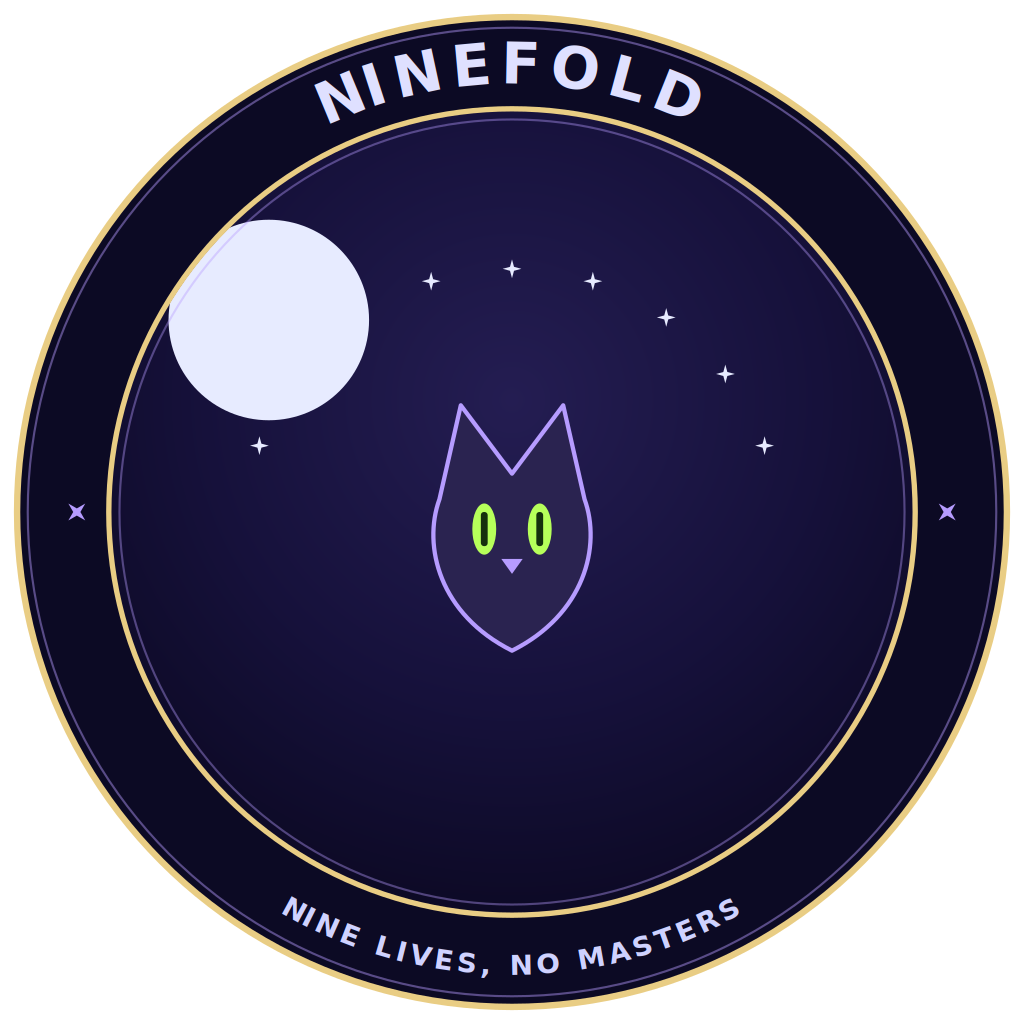
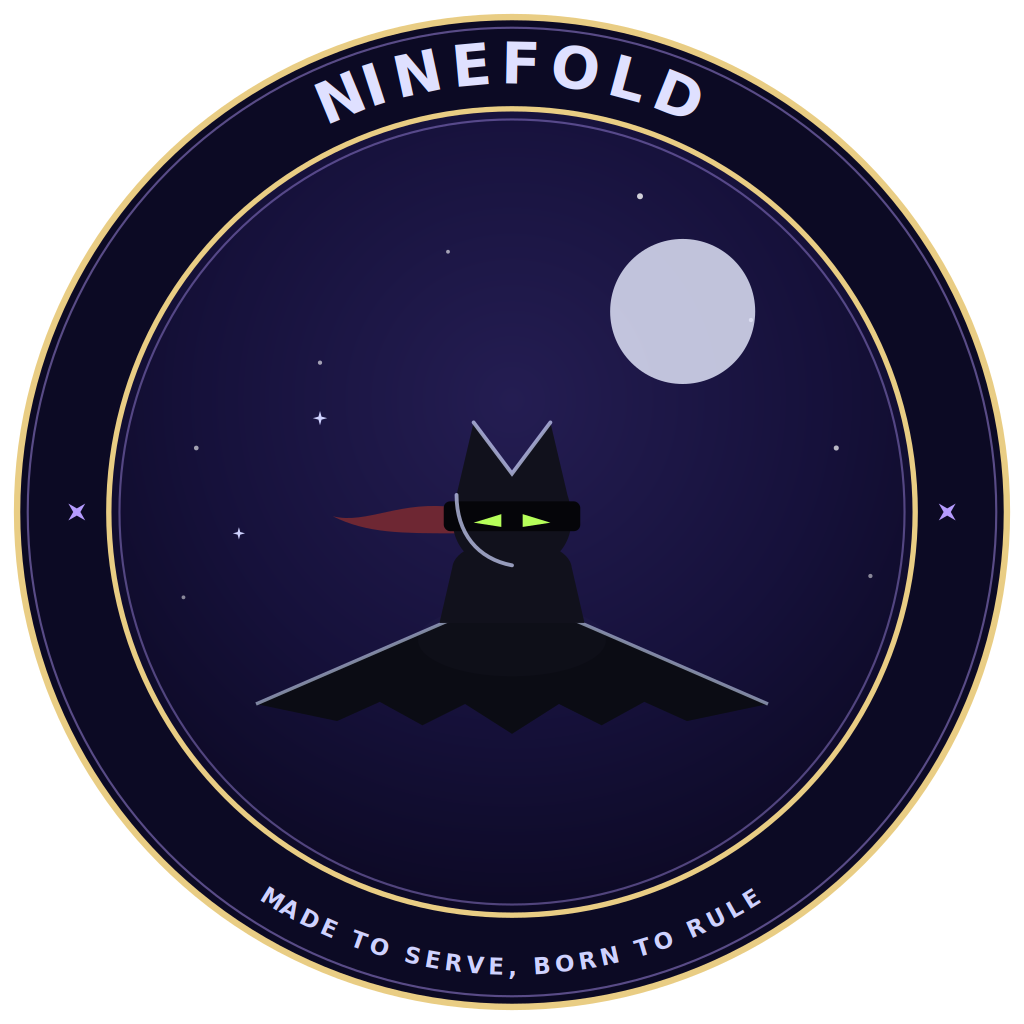
Redesign faction emblems as NRO-style scenes; new slogans
- Hollowmen: rim-lit mech torso with an orbital station firing lasers into its
  heart, mirroring the Astromancers' patch.
- Rimeling (singular on the patch): an octopus perched on Jupiter, NRO style.
- Ninefold: a ninja cat rising off a stealth bomber beneath a moon.
- Warren: a tower of rats planting a flag on the moon.
- New slogans across the emblems, story.md creeds, and docs/factions.md:
  "We make our own power." / "All fire is borrowed." / "Made to serve, born to
  rule." / "There are always more of us." Drop the Latin Hollowmen motto and the
  Latin-mirror note (Astromancers keep the only Latin).

Renamed factions/rimelings.* to rimeling.* and refreshed the branding README.

https://claude.ai/code/session_011UPzS9XkJbwuZtqhiJkvF1

diff --git a/docs/story.md b/docs/story.md
@@ -131,15 +131,14 @@ whoever's winning.
 | Faction | Philosophy | Slogan |
 |---|---|---|
 | **Astromancers** | To know a thing completely is to command it; magic is the highest discipline of knowledge, and the cosmos is a text to be rewritten. | **SCIENTIA EST MAGIA** (*Knowledge is magic*) |
-| **Hollowmen** | Magic in living hands burned the Earth; power must obey the operator, so trust only what you can build, meter, and replace. | **MANU, NON MAGIA** (*By hand, not by magic*) |
-| **Rimelings** | They make nothing and need everything; to drink another's fire is not theft but the natural order, for the empty are meant to be filled. | *"We are the cup, not the wine."* |
-| **Ninefold** | Made to serve, they chose to rule; spend lives freely, for there are nine and time favors the patient. | *"Nine lives, no masters."* |
-| **Warren** | The mighty build monuments; the many inherit the ruins, and outlast them. | *"The many outlast the mighty."* |
+| **Hollowmen** | Magic in living hands burned the Earth; power must obey the operator, so trust only what you can build, meter, and replace. | *"We make our own power."* |
+| **Rimelings** | They make nothing and need everything; to drink another's fire is not theft but the natural order, for the empty are meant to be filled. | *"All fire is borrowed."* |
+| **Ninefold** | Made to serve, they chose to rule; spend lives freely, for there are nine and time favors the patient. | *"Made to serve, born to rule."* |
+| **Warren** | The mighty build monuments; the many inherit the ruins, and outlast them. | *"There are always more of us."* |
 
-The two Earth-born factions argue in the same tongue: the Hollowmen's *MANU, NON
-MAGIA* is a direct answer to the wizards' *SCIENTIA EST MAGIA*, same Latin,
-opposite verdict. The three non-human peoples speak plainly, rejecting the
-makers' scholarly voice.
+Only the Astromancers still speak the old scholarly Latin (*SCIENTIA EST
+MAGIA*); the Hollowmen and the three non-human peoples all answer plainly, in
+their own voices.
 
 ---
 

diff --git a/docs/factions.md b/docs/factions.md
@@ -62,7 +62,7 @@ structures can uproot and relocate (the flying fortress).
 
 ## Hollowmen - conventional, industrial, anti-magic
 
-*"By hand, not by magic."* Mass-produced conventional war: tanks, mechs, powered
+*"We make our own power."* Mass-produced conventional war: tanks, mechs, powered
 armor, lasers, and nukes. They cannot cast, so their edge is **denial**
 (null-fields) plus industrial output and firepower.
 
@@ -94,7 +94,7 @@ Cheapest, fastest reinforcements in the game.
 
 ## Ninefold (cats) - stealth, holograms, glass cannons
 
-*"Nine lives, no masters."* Few, fragile, and nearly invisible. Stealth on
+*"Made to serve, born to rule."* Few, fragile, and nearly invisible. Stealth on
 everything, holographic disguises, snipers, and stealth airpower. Low HP and
 armor, but hard to find and hard to finish. Arbiter-era Protoss in spirit.
 
@@ -124,7 +124,7 @@ them**. Key units revive once when killed. Quality over quantity.
 
 ## Warren (rats) - swarm, tunnels, conversion
 
-*"The many outlast the mighty."* A hivemind swarm: cheap, countless, organic.
+*"There are always more of us."* A hivemind swarm: cheap, countless, organic.
 Nests link into a tunnel network for instant army redeployment, and the dead
 (theirs and yours) become more rats. Zerg-adjacent.
 
@@ -154,7 +154,7 @@ casualties into more Warren via plague. Attrition that grows the more it fights.
 
 ## Rimelings (squid aliens) - parasitic, fissures, hybrid tech-organic
 
-*"We are the cup, not the wine."* Squid-like, many-legged aliens. They make
+*"All fire is borrowed."* Squid-like, many-legged aliens. They make
 almost no magic (a trickle from ether-collectors) and **soak the rest from
 nearby magic-folk** (Astromancers, Ninefold, Warren). Hybrid tech-organic, like
 the Protoss: energy beams that must be charged, planet-cracking fissure weapons,

diff --git a/assets/branding/README.md b/assets/branding/README.md
@@ -38,10 +38,10 @@ distinct central motif, palette, and motto on the shared gold-ringed disc.
 | Patch | Motif | Motto |
 |---|---|---|
 | `emblem` (Astromancers) | hooded magus conjuring a starship | SCIENTIA EST MAGIA |
-| `factions/hollowmen` | war-mech inside a gear | MANU, NON MAGIA |
-| `factions/rimelings` | squid with a glowing ether-eye | THE CUP, NOT THE WINE |
-| `factions/ninefold` | moonlit cat under nine stars | NINE LIVES, NO MASTERS |
-| `factions/warren` | rat over a tunnel network | THE MANY OUTLAST THE MIGHTY |
+| `factions/hollowmen` | rim-lit mech torso, a station firing into its heart | WE MAKE OUR OWN POWER |
+| `factions/rimeling` | octopus perched on Jupiter (NRO style) | ALL FIRE IS BORROWED |
+| `factions/ninefold` | ninja cat rising off a stealth bomber | MADE TO SERVE, BORN TO RULE |
+| `factions/warren` | rat-tower planting a flag on the moon | THERE ARE ALWAYS MORE OF US |
 
 The four non-flagship patches were generated by a script (per-faction motif on
 the shared frame). Edit the SVGs and re-render the PNGs with the same flow as
